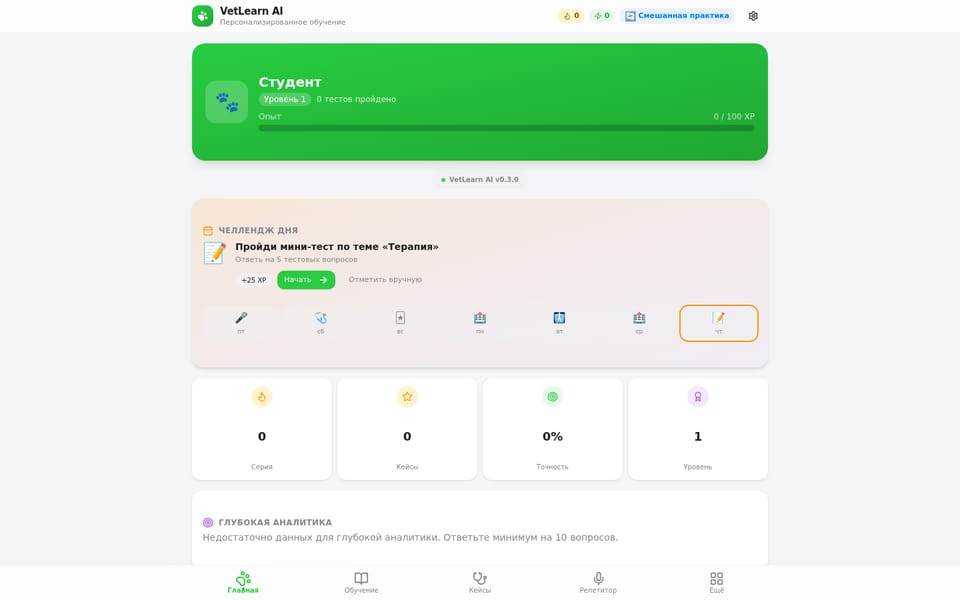
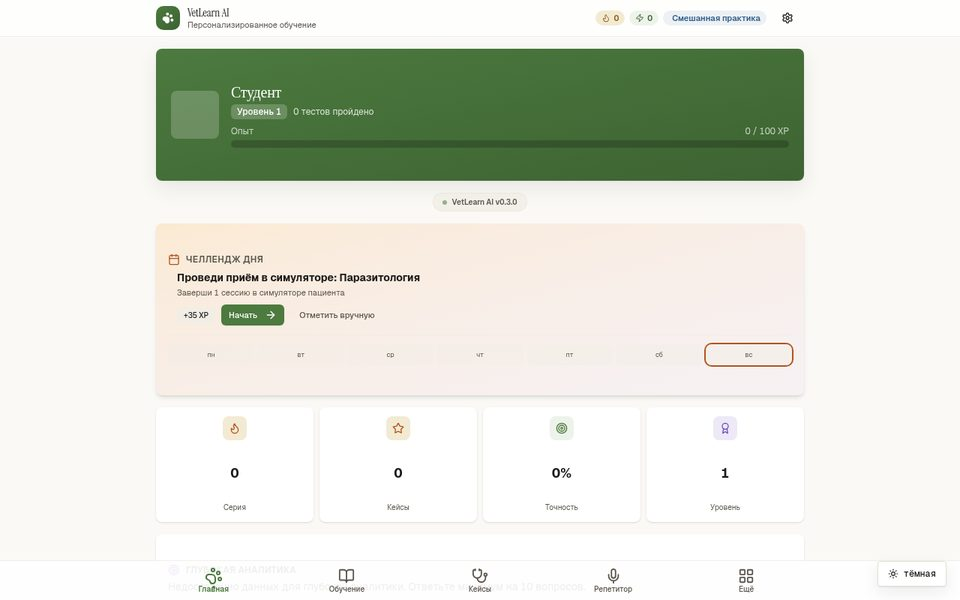
Task 157 (Z.ai): карточка VetLearn — свежий скрин на ДС (бумажная тема) + тег vet-ds v2.2

diff --git a/index.html b/index.html
@@ -675,7 +675,7 @@ section:first-of-type{padding-top:0}
 
       <article class="card cat-doc" data-cat="doc">
         <a class="card__shot" href="https://shray77.github.io/vetlearn-web/" target="_blank" rel="noopener">
-          <img src="assets/shots/vetlearn-web.jpg" alt="VetLearn AI — платформа обучения ветеринарии" loading="lazy" decoding="async">
+          <img src="assets/shots/vetlearn-web.jpg" alt="VetLearn AI — платформа обучения на дизайн-системе «научная периодика»: бумажная тема, сери-заголовки" loading="lazy" decoding="async">
           <span class="card__open">открыть ↗</span>
         </a>
         <div class="card__body">
@@ -691,7 +691,7 @@ section:first-of-type{padding-top:0}
             <li>Симулятор приёма, OSCE-станции, атлас рентген/УЗИ/цитология</li>
             <li>AI-флешкарточки с интервальным повторением SM-2; 5 специализаций</li>
           </ul>
-          <div class="card__tags"><span class="card__tag">Next.js 16</span><span class="card__tag">React 19</span><span class="card__tag">Zustand</span><span class="card__tag">SM-2</span></div>
+          <div class="card__tags"><span class="card__tag">Next.js 16</span><span class="card__tag">React 19</span><span class="card__tag">Zustand</span><span class="card__tag">SM-2</span><span class="card__tag">vet-ds v2.2</span></div>
           <div class="card__links">
             <a class="ds-btn ds-btn--primary" href="https://shray77.github.io/vetlearn-web/" target="_blank" rel="noopener">Демо ↗</a>
             <a class="ds-btn" href="https://github.com/shray77/vetlearn-web" target="_blank" rel="noopener">Код</a>
